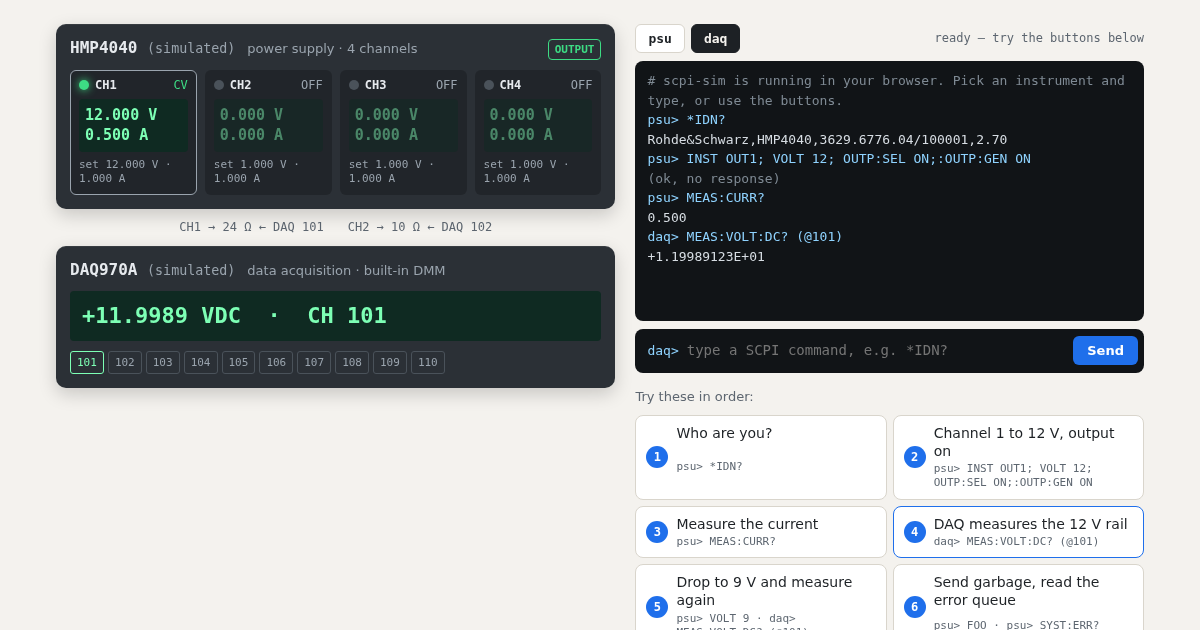
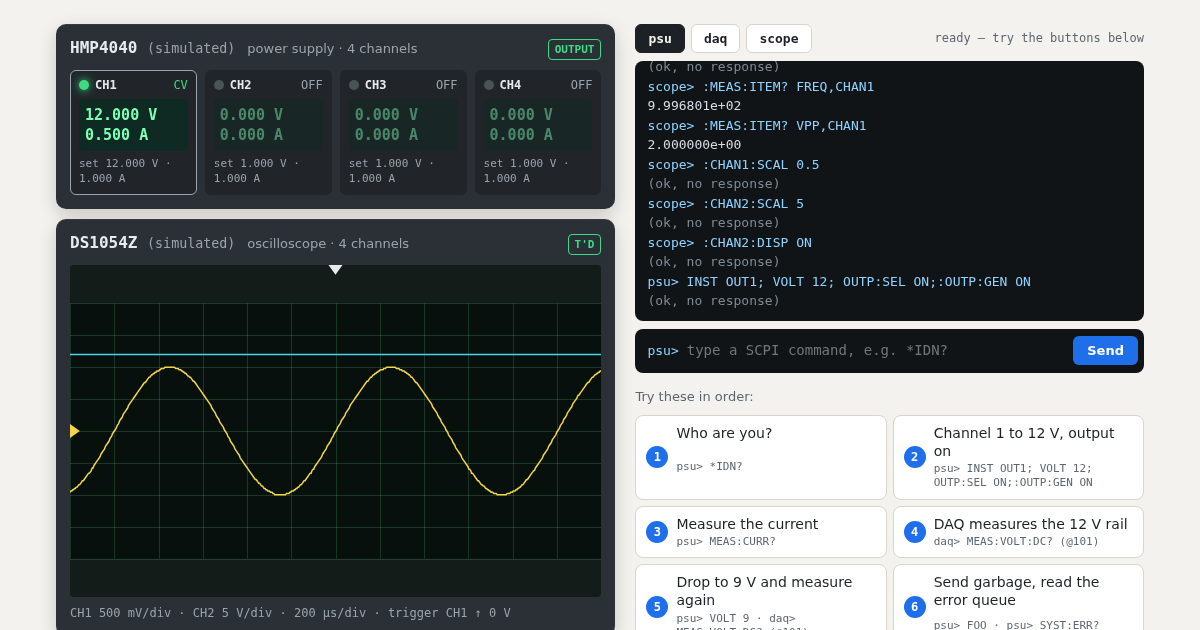
Release 0.6.0: oscilloscope in the browser demo, version and changelog

diff --git a/web/site/index.html b/web/site/index.html
@@ -75,7 +75,7 @@
               <span class="badge trig" data-testid="scope-status">AUTO</span>
             </span>
           </header>
-          <canvas data-testid="scope-screen" id="scope-screen" width="600" height="520" role="img"
+          <canvas data-testid="scope-screen" id="scope-screen" width="640" height="400" role="img"
                   aria-label="Oscilloscope screen: the waveforms of the latest capture"></canvas>
           <p class="readout" data-testid="scope-readout">– – –</p>
           <p class="powering">powering up…</p>
@@ -118,7 +118,7 @@
       <div class="fallback" data-testid="fallback" hidden>
         <p><strong>The live demo could not start here.</strong> <span id="fallback-reason"></span></p>
         <p>This is what it looks like. Everything below works the same with <code>pip install scpi-sim</code>.</p>
-        <img src="img/bench.png" alt="The demo bench: power supply channel 1 at 12 V and 0.5 A, the DAQ reading 12 V" width="1200" height="630">
+        <img src="img/bench.png" alt="The demo: power supply channel 1 at 12 V and 0.5 A, an oscilloscope showing a sine and the 12 V rail, and the SCPI terminal" width="1200" height="630">
         <button type="button" data-testid="retry" id="retry">Retry</button>
       </div>
     </section>

diff --git a/web/site/style.css b/web/site/style.css
@@ -112,7 +112,7 @@ code { font-family: var(--mono); font-size: .92em; }
 .badge.trig { border-color: var(--led-on); color: var(--led-on); }
 .badge.trig[data-state="wait"] { border-color: var(--fault); color: var(--fault); }
 .badge.trig[data-state="stop"] { border-color: var(--err); color: var(--err); }
-#scope-screen { display: block; width: 100%; height: auto; aspect-ratio: 60 / 52; border-radius: 4px; background: #07100d; }
+#scope-screen { display: block; width: 100%; height: auto; aspect-ratio: 16 / 10; border-radius: 4px; background: #07100d; }
 .readout { margin: 8px 0 0; color: var(--panel-muted); font: 12px/1.4 var(--mono); overflow-wrap: anywhere; }
 
 .powering { display: none; position: absolute; inset: auto 0 0 0; margin: 0; padding: 6px; text-align: center; font: 12px/1 var(--mono); color: var(--panel-muted); }

diff --git a/web/site/app.js b/web/site/app.js
@@ -183,6 +183,7 @@ function drawScreen(scope) {
 }
 
 function engineering(value, unit) {
+  if (value === 0) return `0 ${unit}`;
   const steps = [[1, ""], [1e-3, "m"], [1e-6, "µ"], [1e-9, "n"]];
   const [factor, prefix] = steps.find(([f]) => Math.abs(value) >= f) ?? steps[steps.length - 1];
   return `${+(value / factor).toPrecision(3)} ${prefix}${unit}`;

diff --git a/src/scpi_sim/__init__.py b/src/scpi_sim/__init__.py
@@ -1,6 +1,6 @@
 """Simulated SCPI lab instruments on a raw TCP socket."""
 
-__version__ = "0.5.0"
+__version__ = "0.6.0"
 
 from .instrument import Instrument, scpi  # noqa: E402
 from .instruments import Multimeter, Multiplexer, Oscilloscope, PowerSupply, Signal  # noqa: E402

diff --git a/tests/test_errors.py b/tests/test_errors.py
@@ -15,4 +15,4 @@ def test_no_error_entry():
 
 def test_version():
     import scpi_sim
-    assert scpi_sim.__version__ == "0.5.0"
+    assert scpi_sim.__version__ == "0.6.0"

diff --git a/CHANGELOG.md b/CHANGELOG.md
@@ -4,7 +4,7 @@ All notable changes to this project are documented here. The format follows
 [Keep a Changelog](https://keepachangelog.com/en/1.1.0/); versions follow
 [Semantic Versioning](https://semver.org/).
 
-## Unreleased
+## 0.6.0 - 2026-11-01
 
 ### Added
 
@@ -25,6 +25,14 @@ All notable changes to this project are documented here. The format follows
 - Bench terminals `<scope>.ch<n>`: a wired channel shows the DC voltage of its net.
 - SCPI headers may contain `_` (`WFMOutpre:BYT_Nr`), `@scpi(..., also=(...))`
   gives a command further spellings, and numbers accept the prefix `n` (`5NS`).
+- Browser demo: a DS1054Z joins the bench, with a screen that draws the
+  simulator's own samples live, a tour (measuring, binary blocks, clipping, a
+  trigger that hangs `*OPC?`) and three more fault buttons. `examples/profiles/bench.yaml`
+  gains the scope.
+
+### Fixed
+
+- Browser demo: the "What else it does" section was narrowed and indented.
 
 ## 0.5.0 - 2026-10-29
 

diff --git a/README.md b/README.md
@@ -21,7 +21,7 @@ Rohde & Schwarz, Keysight, Keithley, Siglent, Rigol and Tektronix, so code writt
 instruments runs unchanged.
 
 **Try it in your browser:** <https://scpi-sim.steitec.net>, a simulated power
-supply wired to a DAQ, running the real simulator in the page.
+supply wired to a DAQ and an oscilloscope, running the real simulator in the page.
 Walkthroughs, CI recipes and troubleshooting are in the
 [wiki](https://github.com/steitec/scpi-sim/wiki); this README is the reference.
 
